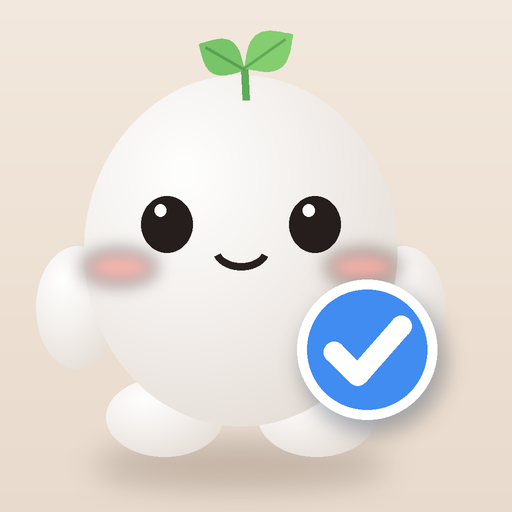
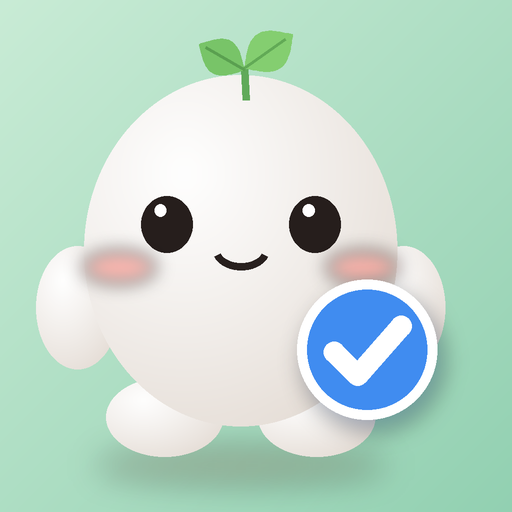
1.4.0: 민트 아이콘, 입력·알림·색 태그·그룹 아이콘 개선

diff --git a/README.md b/README.md
@@ -24,7 +24,7 @@
 
 **[최신 버전 APK 받기 (Releases)](https://github.com/pjh3152/RiccoDo-app/releases/latest)**
 
-`Assets` 항목의 **RiccoDo-1.3.1.apk**를 받아 설치하면 됩니다.
+`Assets` 항목의 **RiccoDo-1.4.0.apk**를 받아 설치하면 됩니다.
 
 - 지원 기기: **Android 8.0 (Oreo) 이상**
 - 처음 설치할 때 브라우저나 파일 앱의 ‘출처를 알 수 없는 앱 설치’를 허용해야 할 수 있습니다.
@@ -36,7 +36,7 @@
 ### 할 일을 한눈에
 
 - **전체 / 지난 할 일 / 오늘** 탭과 남은 개수
-- 할 일 왼쪽의 세로 색줄, **15가지 색 태그**, 맨 위 고정
+- 할 일 왼쪽의 세로 색줄, **19가지 색 태그**와 랜덤 색상, 맨 위 고정
 - 제목·메모 검색, 완료된 할 일도 함께 검색
 - 그룹별 정리, 그룹 이름·색·순서 변경
 - 정렬 6가지: 수동·예정일·입력 시간·수정 시간·가나다·색 태그
@@ -44,7 +44,7 @@
 
 ### 빠르게 적고, 기분 좋게 완료
 
-- **+ 버튼**에서 오늘·내일·달력 날짜, 알림, 고정, 색 지정
+- **+ 버튼**에서 달력 날짜, 알림, 고정, 색 지정 (마지막으로 고른 색은 바꾸기 전까지 계속 사용)
 - 엔터로 저장한 뒤 다음 할 일을 연속 입력
 - 두 번 탭하면 체크 애니메이션과 ‘스슥’ 펜 소리로 완료, **되돌리기** 지원
 - 오른쪽으로 밀기: 완료·고정·반복
@@ -108,6 +108,18 @@
 드라이브를 연결하지 않으면 인터넷을 쓰지 않습니다. 자세한 내용은 [개인정보처리방침](https://pjh3152.github.io/RiccoDo-app/privacy.html)을 확인하세요.
 
 ## 버전 기록
+
+### v1.4.0 (2026-11-20)
+
+- 앱 아이콘 배경을 민트색으로 바꿔 홈 화면에서 잘 보이게, 시작 화면은 항상 밝은 배경으로 약 0.7초
+- 할 일을 입력하다 화면을 돌려도 입력한 내용이 사라지지 않음 (수정 화면 포함)
+- + 버튼으로 등록할 때 미리알림이 저장되지 않던 문제 수정, 등록 뒤 날짜 선택이 남아 있던 문제 수정, 오늘·내일 버튼 정리
+- 알림을 눌러 열면 그 할 일이 있는 그룹을 보여 줌
+- 삭제할 때 ‘사락-톡’ 효과음
+- 색 태그 19가지(와인·진초록·민트·네이비 추가)와 랜덤 색상, 마지막으로 고른 색 기억
+- 그룹 아이콘을 목록 모양으로 바꾸고 그룹에 정한 색으로 표시, 왼쪽 위에 앱 아이콘
+- 반복 선택 창 글자 크게
+- 새 색을 쓴 백업 파일은 1.4.0 이상에서 복원할 수 있습니다
 
 ### v1.3.1 (2026-11-19)
 
